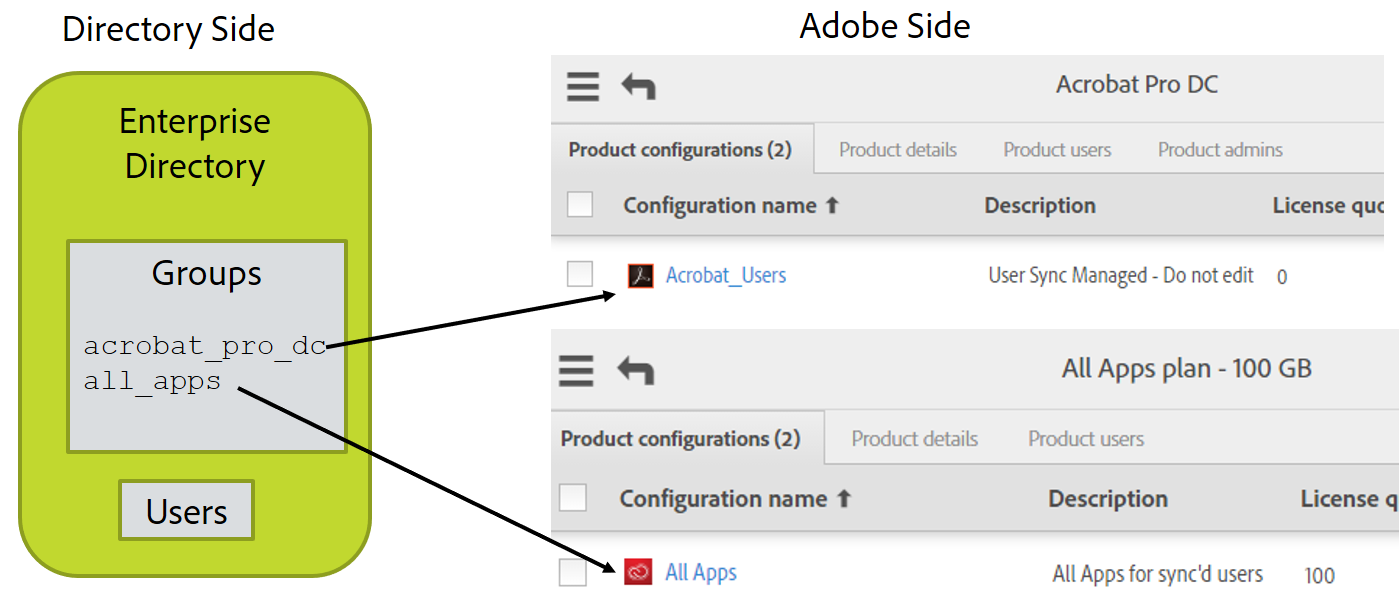
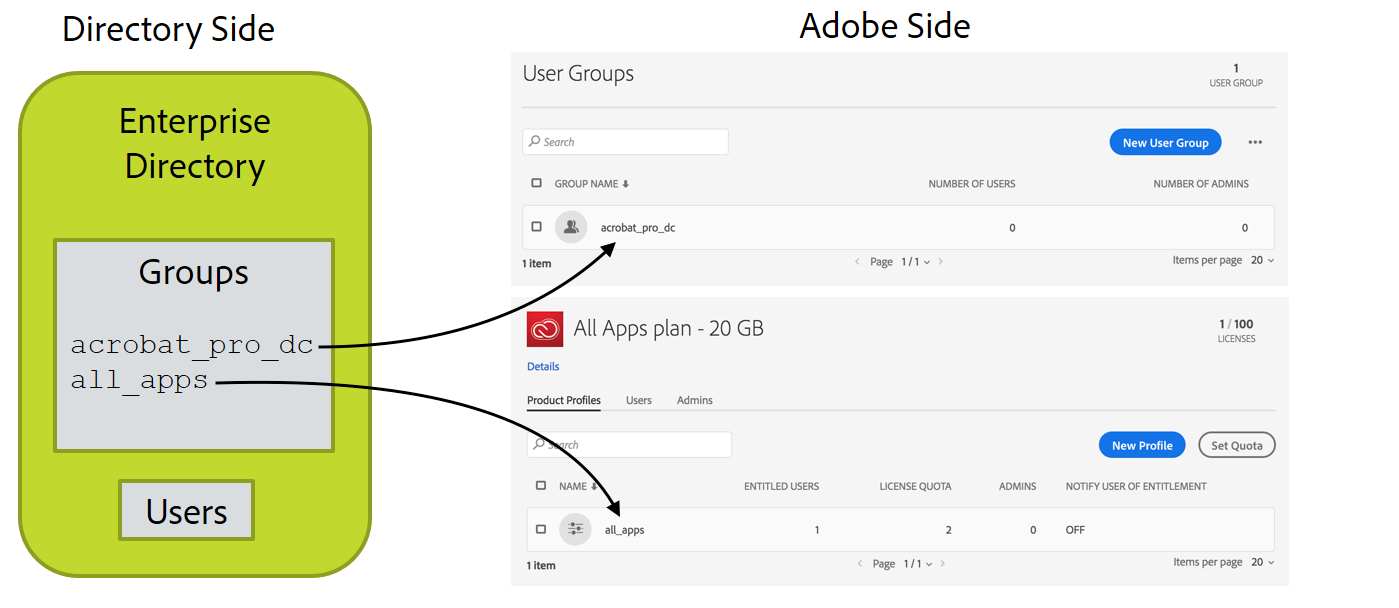
update

diff --git a/docs/en/success-guide/setup_config_files.md b/docs/en/success-guide/setup_config_files.md
@@ -12,14 +12,14 @@ nav_order: 280
 [Previous Section](install_sync.md) \| [Back to Contents](index.md) \| [Next Section](test_run.md)
 
 
-Now comes the step where we put everything together.  You’ll need:
+Now comes the step where we put everything together. You’ll need:
 
 - Adobe.io integration access values from the adobe.io console
 - Private key file
 - Directory system access credentials and information about how users are organized
 - Decision of whether you are managing product access via user sync
-  - Product Configuration names and user group names for how you want licenses organized on the Adobe side
-  - Product Configurations and user groups need to have been already created on the Adobe Admin Console.
+  - Product Profile names and user group names for how you want licenses organized on the Adobe side
+  - Product Profiles and user groups need to have been already created on the Adobe Admin Console.
 
 Be sure to use a text editor, not a word processing editor.
 
@@ -28,30 +28,30 @@ Be sure to use spaces, not tabs in .yml files.
 
 ## Let’s Setup the Configuration Files
 
-In previous steps, you set up a file system directory for the user sync tool Python code and configuration files.  There are three configuration files to set up now.  One is for accessing the directory system, one is for accessing your Adobe organization, and one defines the group mapping and configures other User Sync features. 
+In previous steps, you set up a file system directory for the user sync tool Python code and configuration files. There are three configuration files to set up now. One is for accessing the directory system, one is for accessing your Adobe organization, and one defines the group mapping and configures other User Sync features.
 
 ### Directory Access Configuration File
 
-If you are driving User Sync from a file, you can skip setting up connector-ldap.yml and instead create a csv file with your entire user list following the "csv inputs - user and remove lists/1 users-file.csv" file example.  This file is in the example-configurations.tar.gz download from the release.
+If you are driving User Sync from a file, you can skip setting up connector-ldap.yml and instead create a csv file with your entire user list following the "csv inputs - user and remove lists/1 users-file.csv" file example. This file is in the example-configurations.tar.gz download from the release.
 
-&#9744; Edit the file connector-ldap.yml.  This file has access information to the directory system.  Put in username, password, host, and base_dn values.
+&#9744; Edit the file connector-ldap.yml. This file has access information to the directory system. Put in username, password, host, and base_dn values.
 
-&#9744; Read through the rest of the file to see what else could be specified which might apply in your installation.  Usually, nothing else is required.
+&#9744; Read through the rest of the file to see what else could be specified which might apply in your installation. Usually, nothing else is required.
 
 ![](images/setup_config_directory.png)
 
 If you need a non-default LDAP query to select the desired set of users, it is setup in this file as part of the all\_users\_filter config parameter.
 
 
-### Adobe UMAPI Credentials 
+### Adobe UMAPI Credentials
 
-&#9744; Edit the connector-umapi.yml.  Put in the information from the adobe.io integration you created earlier.  This would be the org\_id, api\_key, client\_secret, and tech\_acct.
+&#9744; Edit the connector-umapi.yml. Put in the information from the adobe.io integration you created earlier. This would be the org\_id, api\_key, client\_secret, and tech\_acct.
 
 &#9744; Place the private key file in the user_sync_tool folder. The priv\_key\_path config file item is then set to the name of this file.
 
 ![](images/setup_config_umapi.png)
 
-### Main User Sync config file 
+### Main User Sync config file
 
 Edit the user-sync-config.yml file.
 
@@ -64,50 +64,50 @@ Edit the user-sync-config.yml file.
 	  # default_country_code: US
 
 
-&#9744; If your directory does not list a country for each user, you can set a default country here.  Remove the "# " from the default country code line so it looks like this
+&#9744; If your directory does not list a country for each user, you can set a default country here. Remove the "# " from the default country code line so it looks like this
 
 	  default_country_code: US
 
-and set the code to the appropriate country.  Don't change the indent level of the line.
+and set the code to the appropriate country. Don't change the indent level of the line.
 
-A country code is **REQUIRED** for Federated Ids and recommended for Enterprise Ids.  If not supplied for Enterprise Ids, the user will be prompted to choose a country when they first log in.
+A country code is **REQUIRED** for Federated Ids and recommended for Enterprise Ids. If not supplied for Enterprise Ids, the user will be prompted to choose a country when they first log in.
 
 ### Connectors
 
 	  connectors:
 	    # specifies the configurations for the difference directory connectors
 	    # The format is name : value, where value can be:
-	    # a dictionary for the actual configuration, or 
+	    # a dictionary for the actual configuration, or
 	    # a string for the file containing the configuration, or
 	    # a list containing a mixture of dictionaries and strings
 	    #
-	    # examples:   
+	    # examples:
 	    # ldap: example.connector-ldap.yml
-	    # ldap: 
+	    # ldap:
 	    #   - host: LDAP_host_URL_goes_here
 	    #     base_dn: base_DN_goes_here
 	    #   - connector-ldap-credentials.yml
 
-You shouldn't need to make any changes here.  The ldap line is used if you are using a non-default name for the ldap directory access config file.
+You shouldn't need to make any changes here. The ldap line is used if you are using a non-default name for the ldap directory access config file.
 
 #### Group Map
 
 If you are not managing licenses via User Sync, you can skip this section where we set the group mapping.
 
-You can provision user accounts by adding them to an enterprise directory group using LDAP/AD tools rather than the Adobe Admin Console.  Then, the config file defines a mapping from directory groups to Adobe PCs.  If a user is a member of a directory group, user-sync will add them to the corresponding PC.  Same for removal.
+You can provision user accounts by adding them to an enterprise directory group using LDAP/AD tools rather than the Adobe Admin Console. Then, the config file defines a mapping from directory groups to Adobe PPs. If a user is a member of a directory group, user-sync will add them to the corresponding PP. Same for removal.
 
 
-&#9744; Edit the group mapping part of the file.  For each directory groups D that should map to an Adobe PC or user group P, add an entry after "groups:" of the form
+&#9744; Edit the group mapping part of the file. For each directory groups D that should map to an Adobe PP or user group P, add an entry after "groups:" of the form
 
 	    - directory_group: D
-	      adobe_groups: 
+	      adobe_groups:
 	        - P
 
 A more realistic example is:
 
 	  groups:
 	    - directory_group: acrobat_pro_dc
-	      adobe_groups: 
+	      adobe_groups:
 	        - Default Acrobat_Users
 	    - directory_group: all_apps
 	      adobe_groups:
@@ -117,11 +117,11 @@ A more realistic example is:
 
 ![](images/setup_config_group_map.png)
 
-#### Unmatched User Limits 
+#### Unmatched User Limits
 
 Limits on deletion prevent accidental account deletion in the event of misconfiguration or some other problem that results in User Sync not getting proper data from the directory system.
 
-&#9744; If you expect the number of directory users to drop by more than 200 between User Sync runs, then you will need to raise the `max_adobe_only_users` value.  This config file entry prevents runaway deletion in case of misconfiguration or other problems.
+&#9744; If you expect the number of directory users to drop by more than 200 between User Sync runs, then you will need to raise the `max_adobe_only_users` value. This config file entry prevents runaway deletion in case of misconfiguration or other problems.
 
 	limits:
 	    max_adobe_only_users: 200      # abort updates if this many directory users disappear
@@ -132,12 +132,12 @@ Limits on deletion prevent accidental account deletion in the event of misconfig
 
 If you want to drive account creation and removal through User Sync, and want to manually create a few accounts then you may need this feature to keep User Sync from deleting your manually created accounts.
 
-&#9744; If you need to use this feature, add lines such as below to the config file under adobe_users.   To protect users on the Admin Console from updates, create a user group and put the protected users into that group, then list that group as excluded from User Sync processing.  You can also list specific users and/or a pattern that matches specific user names to protect those users.  You can protect users based on their identity type as well.  For example, often User Sync is used only to manage federatedID or enterpriseID user types and you can exclude adobeID type users from management by User Sync.  You only need to include configuration items for exclusions that you wish to use.
+&#9744; If you need to use this feature, add lines such as below to the config file under adobe_users. To protect users on the Admin Console from updates, create a user group and put the protected users into that group, then list that group as excluded from User Sync processing. You can also list specific users and/or a pattern that matches specific user names to protect those users. You can protect users based on their identity type as well. For example, often User Sync is used only to manage federatedID or enterpriseID user types and you can exclude adobeID type users from management by User Sync. You only need to include configuration items for exclusions that you wish to use.
 
 ```YAML
 adobe_users:
-  exclude_adobe_groups: 
-    - administrators   # Names an Adobe user group or product configuration whose members are not to be altered or removed by User Sync
+  exclude_adobe_groups:
+    - administrators   # Names an Adobe user group or product profile whose members are not to be altered or removed by User Sync
     - contractors      # You can have more than one group in a list
   exclude_users:
     - ".*@example.com"
@@ -147,9 +147,9 @@ adobe_users:
 ```
 
 
-In the above, administrators, contractors, and the user names are example values.  You would use the names of Adobe user groups, product configurations, or users that you have created.
+In the above, administrators, contractors, and the user names are example values. You would use the names of Adobe user groups, product profiles, or users that you have created.
 
-`exclude_groups` defines a list of Adobe user groups, product configurations, or both. Adobe users who are members of listed groups are neither removed, updated, nor have their group membership changed.
+`exclude_groups` defines a list of Adobe user groups, product profiles, or both. Adobe users who are members of listed groups are neither removed, updated, nor have their group membership changed.
 
 `exclude_users` gives a list of patterns. Adobe users with usernames that match (default case-insensitive, unless the pattern specifies case-sensitive) any of the specified patterns are neither removed, updated, nor have their group membership changed.
 
@@ -170,13 +170,13 @@ Note that:
 
 #### Logging
 
-User Sync produces log entries that are printed to standard output and also written to a log file.  The logging set of configuration settings control details of where and how much log information is output.
+User Sync produces log entries that are printed to standard output and also written to a log file. The logging set of configuration settings control details of where and how much log information is output.
 
-log\_to\_file turns the file log on or off.  
+log\_to\_file turns the file log on or off.
 
-Messages can be on one of 5 level of importance and you can choose the lowest importance that will be included for either the file log or standard output log to the console.  The defaults are to produce the file log and to include messages of level "info" or higher.  This is the recommended setting.
+Messages can be on one of 5 level of importance and you can choose the lowest importance that will be included for either the file log or standard output log to the console. The defaults are to produce the file log and to include messages of level "info" or higher. This is the recommended setting.
 
-&#9744; Review the settings for logs and make any desired changes.  The recommended log level is info (which is the default).
+&#9744; Review the settings for logs and make any desired changes. The recommended log level is info (which is the default).
 
 	logging:
 	  # specifies whether you wish to generate a log file
@@ -184,11 +184,11 @@ Messages can be on one of 5 level of importance and you can choose the lowest im
 	  log_to_file: True
 	  # output path for logs
 	  file_log_directory: logs
-	  # File Logging Level: Can be "debug", "info", "warning", "error", or "critical".  
+	  # File Logging Level: Can be "debug", "info", "warning", "error", or "critical".
 	  # This is in ascending order, meaning "debug" < "critical".
 	  file_log_level: debug
-	  # Console Logging Level: Can be "debug", "info", "warning", "error", or "critical".  
-	  # This is in ascending order, meaning "debug" < "critical".  Default is:
+	  # Console Logging Level: Can be "debug", "info", "warning", "error", or "critical".
+	  # This is in ascending order, meaning "debug" < "critical". Default is:
 	  # console_log_level: debug
 
 

diff --git a/docs/en/success-guide/layout_products.md b/docs/en/success-guide/layout_products.md
@@ -6,33 +6,33 @@ nav_level: 2
 nav_order: 130
 ---
 
-# Layout Your Adobe Products, Product Configurations, and User Groups
+# Layout Your Adobe Products, Product Profiles, and User Groups
 
 [Previous Section](layout_orgs.md) \| [Back to Contents](index.md) \| [Next Section](decide_deletion_policy.md)
 
-Product Configurations (PCs) are group-like structures in the Adobe user management system.  Each PC is associated with a product you have purchased.  Users added to a PC are granted access to and get a license to use the corresponding product.  (The user does not receive anything in this process other than an optional notification that access has been granted.  All license management is handled by back-end systems).
+Product Profiles (PPs) are group-like structures in the Adobe user management system. Each PP is associated with a product you have purchased. Users added to a PP are granted access to and get a license to use the corresponding product. (The user does not receive anything in this process other than an optional notification that access has been granted. All license management is handled by back-end systems).
 
-When you create a PC (which is done in the Adobe Admin Conosle), you can add custom options that control how users will use the specific Adobe product.
+When you create a PP (which is done in the Adobe Admin Console), you can add custom options that control how users will use the specific Adobe product.
 
-You can add users directly to PCs to grant them access to products.  This is the most common way Adobe product licenses are managed.
+You can add users directly to PPs to grant them access to products. This is the most common way Adobe product licenses are managed.
 
-Adobe User groups can be used to group users in a logical way that matches your understanding of how they are organized.  The use of user groups is optional.  User groups can then be added to PCs to grant licenses to users.  Adding users to user groups does not grant licenses unless the user group is added to a PC, making members of the user group implicitly members of the PC.
-
-
-User groups and PCs can only be managed by one User Sync instance.  If there are multiple directories or distributed departments feeding user information to Adobe via User Sync, each must be matched to a single user group or PC.  Otherwise, User Sync cannot distinguish between users who should be removed and users who were added by another instance of User Sync.
-
-You can use User Sync to manage PC membership and license allocation.  This is optional however.  You can also do this management manually on the Adobe Admin Console or using another application.
-
-User Sync helps you manage Adobe product licenses by allowing you to place users into directory groups using the directory system interface or other tools.  Those groups are then mapped to Adobe user groups or PCs.  The mapping is part of the User Sync configuration file.  When User Sync detects that directory users are in one of these mapped groups, the user is added to the corresponding Adobe user group or PC.  Similarly, users in the user group or PC but not in the corresponding directory group are removed from the user group or PC.
-
-&#9744; Decide if you will manage license allocation using User Sync.  If not, you can skip the remaining steps; however, before the users you create can access Adobe products, you will need to manually add them to product configurations using the Adobe Admin Console. 
-
-&#9744; Create the PCs in the Adobe Admin console for the product configurations and groups of users you will be managing.  Add the comment "Managed by User Sync - do not edit" to the description field of the PC.
-
-&#9744; If you are going to use User Groups to manage product access, you will need to first create the user groups and the product configurations, then you can manage product access by adding each user group to the appropriate product configurations. Add the comment "Managed by User Sync - do not edit" to the description field of the user group.
+Adobe User groups can be used to group users in a logical way that matches your understanding of how they are organized. The use of user groups is optional. User groups can then be added to PPs to grant licenses to users. Adding users to user groups does not grant licenses unless the user group is added to a PP, making members of the user group implicitly members of the PP.
 
 
-&#9744; Draw a diagram of your Adobe organizations, and the products and PCs in each.  Add the directory and directory groups to the picture and show the mapping.  For example:
+User groups and PPs can only be managed by one User Sync instance. If there are multiple directories or distributed departments feeding user information to Adobe via User Sync, each must be matched to a single user group or PP. Otherwise, User Sync cannot distinguish between users who should be removed and users who were added by another instance of User Sync.
+
+You can use User Sync to manage PP membership and license allocation. This is optional however. You can also do this management manually on the Adobe Admin Console or using another application.
+
+User Sync helps you manage Adobe product licenses by allowing you to place users into directory groups using the directory system interface or other tools. Those groups are then mapped to Adobe user groups or PPs. The mapping is part of the User Sync configuration file. When User Sync detects that directory users are in one of these mapped groups, the user is added to the corresponding Adobe user group or PP. Similarly, users in the user group or PP but not in the corresponding directory group are removed from the user group or PP.
+
+&#9744; Decide if you will manage license allocation using User Sync. If not, you can skip the remaining steps; however, before the users you create can access Adobe products, you will need to manually add them to product profiles using the Adobe Admin Console.
+
+&#9744; Create the PPs in the Adobe Admin console for the product profiles and groups of users you will be managing. Add the comment "Managed by User Sync - do not edit" to the description field of the PP.
+
+&#9744; If you are going to use User Groups to manage product access, you will need to first create the user groups and the product profiles, then you can manage product access by adding each user group to the appropriate product profiles. Add the comment "Managed by User Sync - do not edit" to the description field of the user group.
+
+
+&#9744; Draw a diagram of your Adobe organizations, and the products and PPs in each. Add the directory and directory groups to the picture and show the mapping. For example:
 
 ![img](images/layout_products_map.png)
 

diff --git a/docs/en/success-guide/scheduling.md b/docs/en/success-guide/scheduling.md
@@ -14,13 +14,13 @@ nav_order: 320
 ## Setting Up Scheduled Run on Windows
 
 
-#### Without Email Notification:
+### Without Email Notification:
 Create a ps1 script with the invocation of user-sync. Create the file run_sync.ps1 with contents below:
 
 	python .\user-sync.pex --users mapped --process-groups
 
 
-#### With Email Notification:
+### With Email Notification:
 Create the following PowerShell file with the invocation of user-sync piped to a scan to pull out relevant log entries for a summary.  Create the file run_sync.ps1 with contents below::
 
 ```powershell
@@ -69,7 +69,7 @@ if ($err) {
 }
 ```
 
-#### Task Scheduler
+### Task Scheduler
 This PowerShell code uses the Windows task scheduler to run the User Sync tool every day starting at 11:00 PM:
 
 Edit the following and run the commands from PowerShell.
@@ -91,13 +91,13 @@ Note that often when setting up scheduled tasks, commands that work from the com
 
 ## Setting Up Scheduled Run on Unix-Based Systems
 
-#### Without Email Notification:
+### Without Email Notification:
 Create a shell script with the invocation of user-sync. Create the file run_sync.sh with contents below:
 
 	cd [user-sync-directory-path]
 	./user-sync --users mapped --process-groups
 
-#### With Email Notification:
+### With Email Notification:
 Create a shell script with the invocation of user-sync piped to a scan to pull out relevant log entries for a summary.  Create the file run_sync.sh with contents below:
 
 	cd [user-sync-directory-path]
@@ -106,7 +106,7 @@ Create a shell script with the invocation of user-sync piped to a scan to pull o
 
 You need to fill in your specific User Sync command line options and the email address to which the report should be sent.
 
-#### Cron Job
+### Cron Job
 This entry in  the Unix crontab will run the User Sync tool at 11 PM each day:
 
 	0 23 * * *  path_to_Sync_shell_command/run_sync.sh
